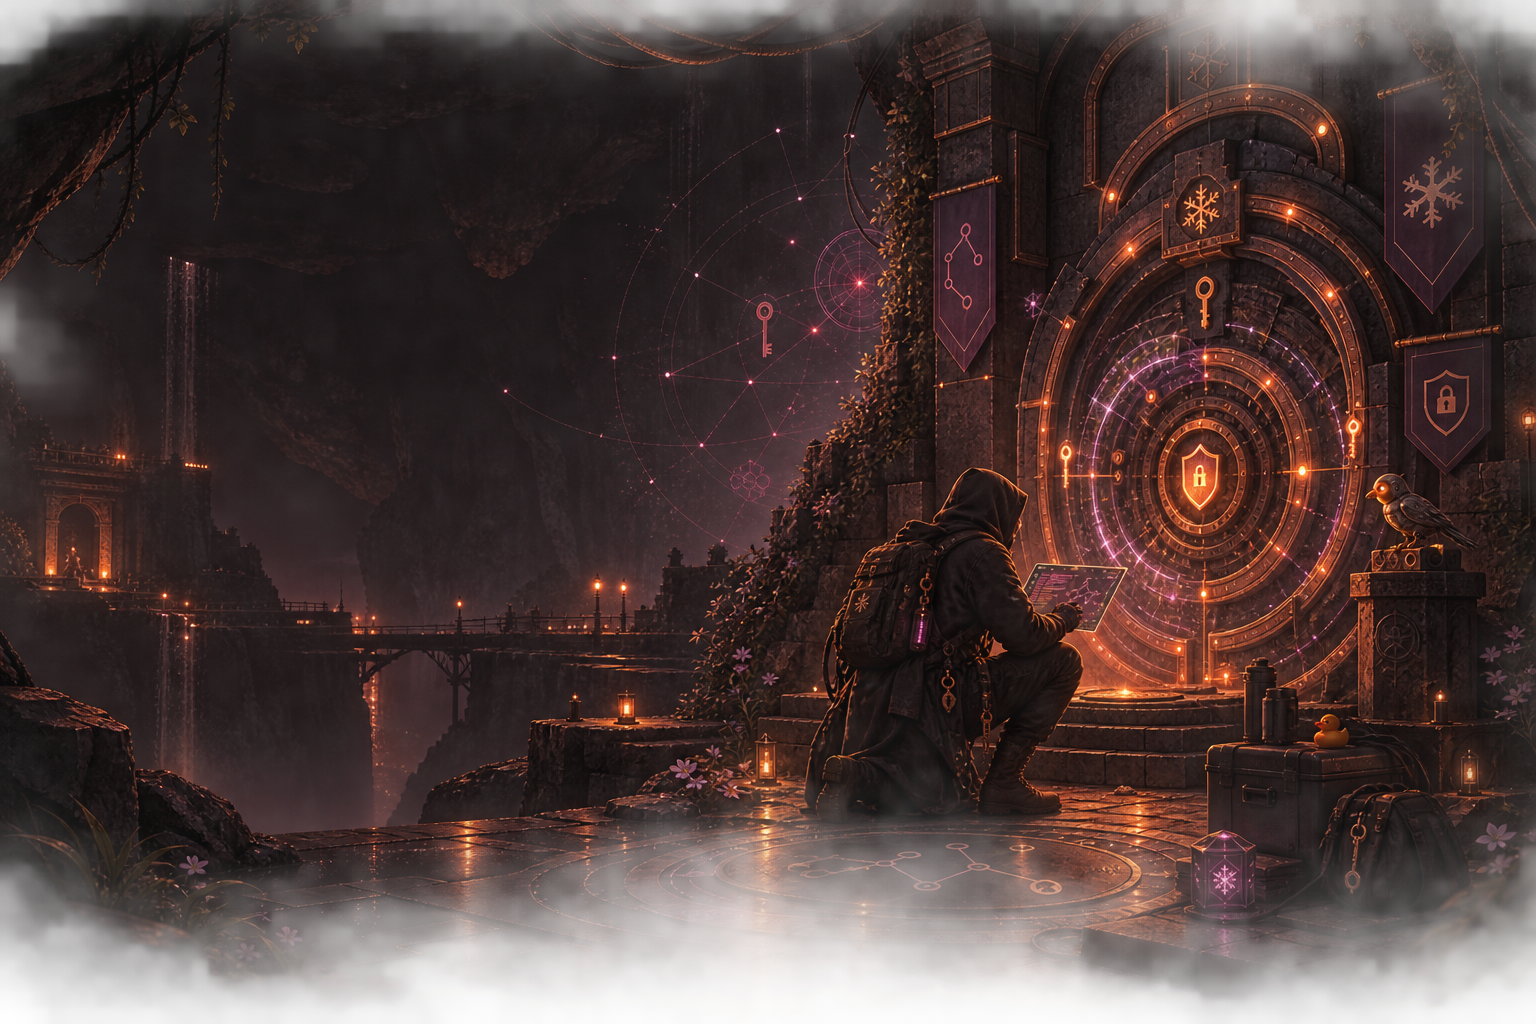
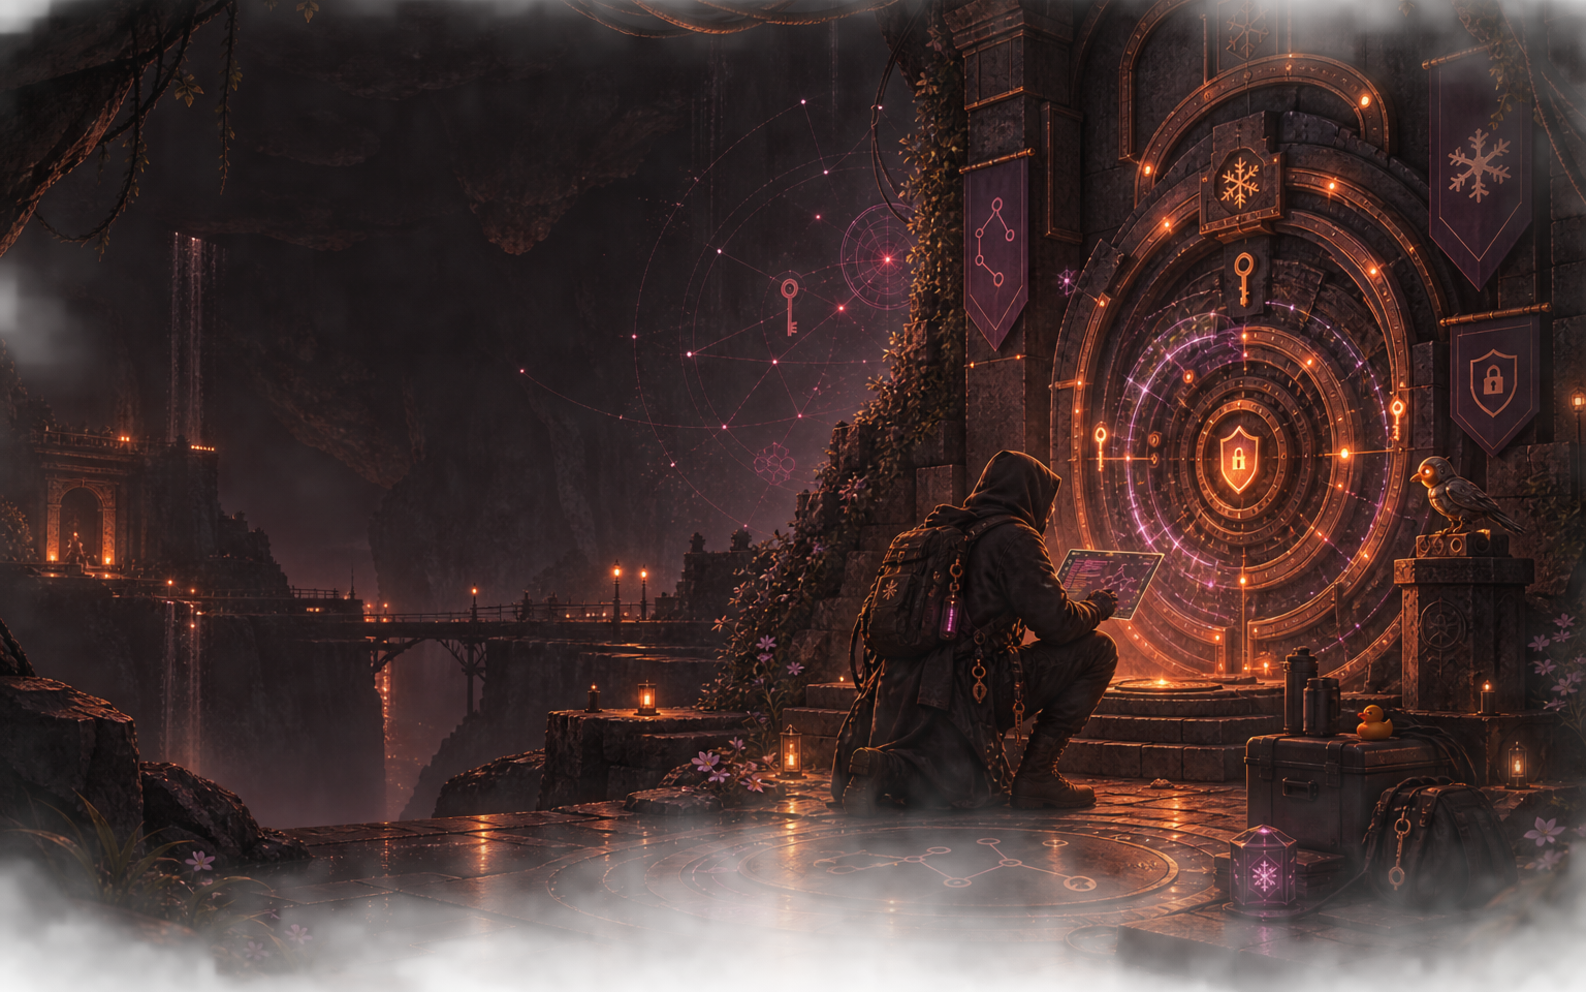
Expand Biscuit OLED wallpaper collection
Add fifteen generated 16:10 wallpapers, refresh the existing zero-trust artwork, and rotate only repository-owned assets. Document the collection and expose semantic theme colors for the desktop shell.

diff --git a/home/wojtek/wallpapers/README.md b/home/wojtek/wallpapers/README.md
@@ -1,15 +1,14 @@
-# Tapety Biscuit
+# Tapety Biscuit OLED
 
-Trzy tapety zostały wygenerowane jako zasoby projektu i są rotowane razem z
-oryginalnym tłem Biscuit:
+Katalog zawiera 22 autorskie tapety wygenerowane jako zasoby projektu. Pełna
+lista scen, inspiracji i easter eggów znajduje się w [CONCEPTS.md](CONCEPTS.md).
 
-- `frieren-observatory.png` — melancholijne fantasy z obserwatorium, runami Git
-  i ukrytym symbolem blokady;
-- `night-ops.png` — oryginalna scena cyber-thrillera z terminalami, grafem
-  zależności i motywem bezpieczeństwa;
-- `devsecops-owl.png` — centrum operacyjne z sową, gumową kaczką, liczbą 42,
-  grafem Git oraz symbolami Nix i bezpieczeństwa.
+Obrazy powstały w palecie Biscuit de Mar Dark za pomocą wbudowanego generatora
+obrazów Codex. Każdy plik ma proporcje 16:10 i rozdzielczość `1586×992`.
+Kompozycje zostawiają spokojniejszą, ciemniejszą lewą stronę pod okna terminala,
+a najnowsze sceny mają niski średni poziom jasności oraz małe, kontrolowane
+akcenty przygotowane z myślą o monitorze OLED.
 
-Obrazy wygenerowano w palecie Biscuit de Mar Dark za pomocą wbudowanego
-generatora obrazów Codex. Kompozycje zostawiają spokojniejszą lewą stronę pod
-okna terminala. Awww skaluje i przycina je do proporcji aktywnego monitora.
+Filmy, seriale, gry i anime są wyłącznie inspiracją klimatem i kadrem. Wszystkie
+postacie, miejsca i sceny są autorskie. Detale DevSecOps i open source są
+rozłożone po kolekcji jako dyskretne easter eggi zamiast dużych logotypów.

diff --git a/home/wojtek/wallpapers/CONCEPTS.md b/home/wojtek/wallpapers/CONCEPTS.md
@@ -16,6 +16,10 @@ aktorów, postaci, logotypów ani konkretnych ujęć.
 - easter eggi do odkrycia: NixOS, graf Git, CVE, port 22, `0xDEADBEEF`, rubber
   duck debugging, Kubernetes i kontenery, klucze SSH, OWASP, Vim, `sudo`, liczba
   42, podpisy artefaktów, canary, honeypot i ukryte `WOJTECH`;
+- narzędzia open source rozłożone po całej kolekcji: Neovim, Tux/Linux, NixOS,
+  Git, Podman, Kubernetes, Ansible, OpenTofu, OpenSSH, GPG, tmux, Fish, btop,
+  Wireshark oraz abstrakcyjne motywy Prometheusa i Grafany; po kilka na scenę,
+  bez ściany logotypów;
 - bez wielkich napisów, przypadkowego kodu, generycznej neonowej metropolii,
   znaków wodnych i nachalnych symboli.
 
